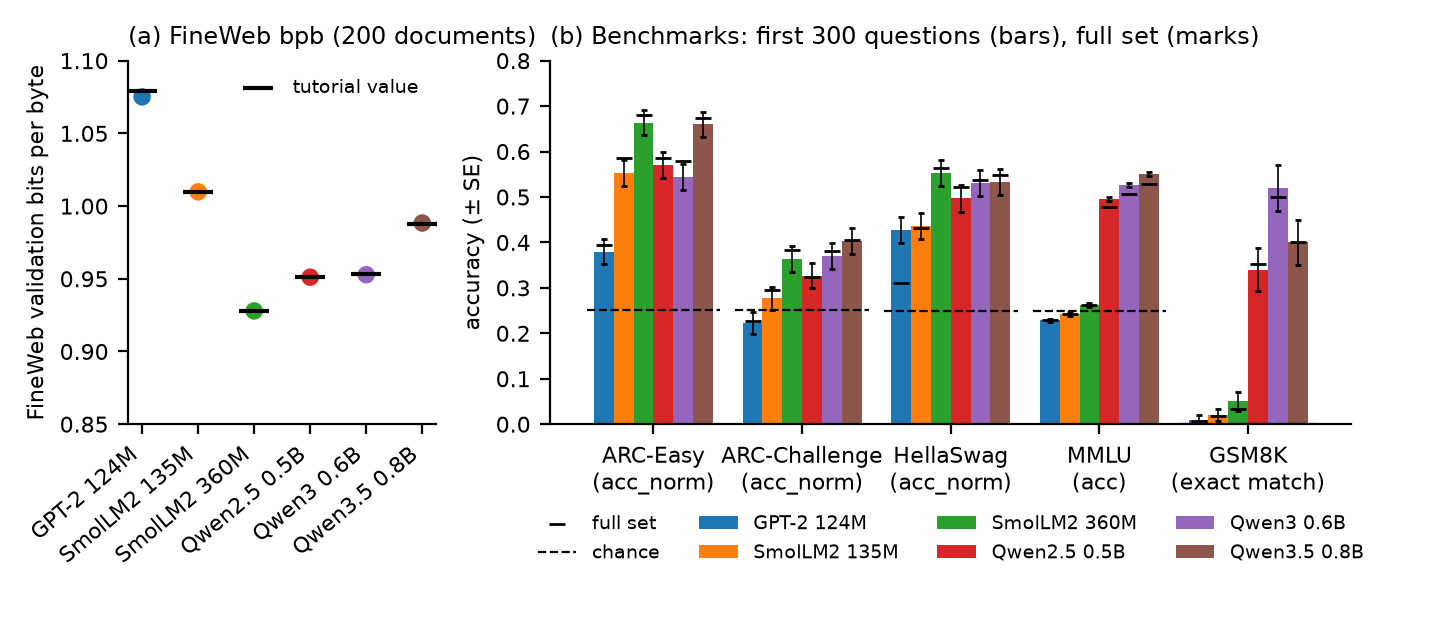
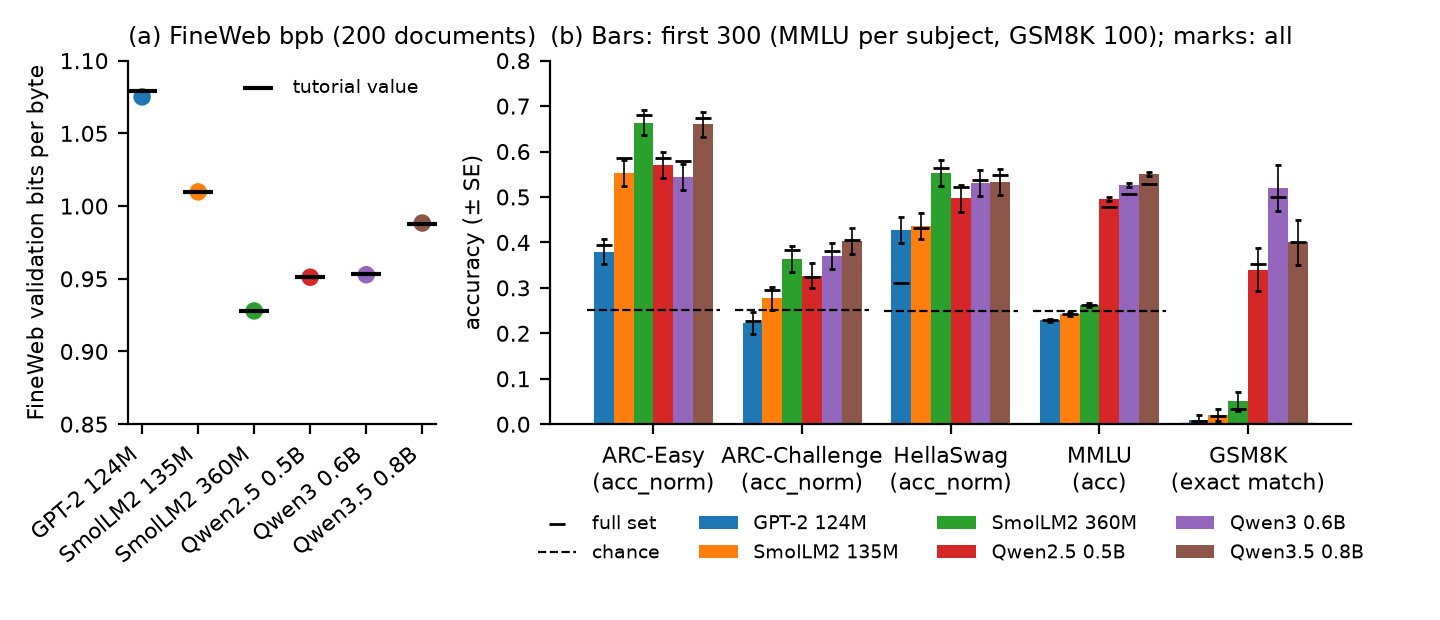
Holm decisions for the cloze pairs, README and figure wording

Changed region(s): [[0.4375, 0.0306, 0.9062, 0.0919]]

diff --git a/analysis/summarize.py b/analysis/summarize.py
@@ -97,7 +97,12 @@ def laptop_reproduction():
 def cloze_pairs():
     """McNemar on cloze-MMLU acc_norm for every pair of base models (same questions, same order)."""
     y = {m: items("cloze", m).sort_values(["sub", "doc_id"]).acc_norm.to_numpy(float) for m in BASE_MODELS}
-    return [{"a": a, "b": b, **mcnemar(y[a], y[b])} for i, a in enumerate(BASE_MODELS) for b in BASE_MODELS[i + 1:]]
+    out = [{"a": a, "b": b, **mcnemar(y[a], y[b])} for i, a in enumerate(BASE_MODELS) for b in BASE_MODELS[i + 1:]]
+    stop = False                                   # Holm's correction over the 15 pairs
+    for i, r in enumerate(sorted(out, key=lambda r: r["p"])):
+        stop = stop or r["p"] > 0.05 / (len(out) - i)
+        r["holm_reject"] = not stop
+    return out
 
 
 def cloze():

diff --git a/analysis/figures.py b/analysis/figures.py
@@ -49,7 +49,7 @@ def evaluation():
     b.set_xticks(range(len(tasks)), [f"{TASKS[t][1]}\n({'acc_norm' if TASKS[t][0] == 'acc_norm' else 'acc' if t != 'gsm8k' else 'exact match'})" for t in tasks])
     b.set_ylabel("accuracy (± SE)")
     b.set_ylim(0, 0.8)
-    b.set_title("(b) Benchmarks: first 300 questions (bars), full set (marks)", loc="left")
+    b.set_title("(b) Bars: first 300 (MMLU per subject, GSM8K 100); marks: all", loc="left")
     b.legend(ncol=4, loc="upper center", bbox_to_anchor=(0.5, -0.2), frameon=False)
     fig.tight_layout()
     fig.savefig(OUT / "evaluation.png", dpi=200)

diff --git a/README.md b/README.md
@@ -60,7 +60,7 @@ On every question of each evaluation set (HellaSwag: the validation set), with M
 | SmolLM2-360M-Instruct GSM8K, chat template and 4-shot chain of thought vs none | 100 | 0.020 | 0.060 (p = 0.22) | 0.0743 |
 | Qwen2.5-0.5B-Instruct GSM8K, chat template and 4-shot chain of thought vs none | 100 | 0.340 | 0.390 (p = 0.44) | 0.496 |
 
-GSM8K uses lm_eval's prompts on the first 300 questions (base models) or 100 (instruct models). Qwen3 states a chain-of-thought prompt, Qwen2.5's report gives only "4-shot", so both of lm_eval's 4-shot prompts are run. Qwen states no setting for its instruct model, so that model runs with the chat template, as SmolLM2's evaluation does, with lm_eval's 5-shot prompt and with its 4-shot chain-of-thought prompt. Few-shot prompts move ARC-Challenge and MMLU toward the published values and the chain-of-thought prompt does the same for the base models' GSM8K, while the shot count alone and the chat template do not; the p values are McNemar, uncorrected, and with Holm's correction over these 10 tests only the MMLU change is resolved. Qwen2.5-0.5B-Instruct's published GSM8K stays unexplained (0.39 with the chat template and chain of thought, p = 0.44, against 0.496).
+GSM8K uses lm_eval's prompts on the first 300 questions (base models) or 100 (instruct models). Qwen3 states a chain-of-thought prompt, Qwen2.5's report gives only "4-shot", so both of lm_eval's 4-shot prompts are run. Qwen states no setting for its instruct model, so that model runs with the chat template, as SmolLM2's evaluation does, with lm_eval's 5-shot prompt and with its 4-shot chain-of-thought prompt. Few-shot prompts move ARC-Challenge and MMLU toward the published values and the chain-of-thought prompt does the same for the base models' GSM8K (McNemar p < 0.05, uncorrected); the shot count alone and the chat template change nothing with p < 0.05, and with Holm's correction over these 10 tests only the MMLU change is resolved. Qwen2.5-0.5B-Instruct's published GSM8K stays unexplained (0.39 with the chat template and chain of thought, p = 0.44, against 0.496).
 
 ### The scoring rule (ARC-Easy)
 
@@ -159,5 +159,5 @@ python analysis/figures.py     # figures/*.png (no GPU)
 - **Scope.** One SFT and one DPO configuration and data set each, at nanolm's settings; LoRA only.
 - **Evaluation.** 0-shot log-likelihood scoring (GSM8K: 5-shot generation, exact match with lm_eval's flexible-extract filter), without chat templates or chain of thought except in the publisher-setting test; every question of each evaluation set and the cloze form only for the base models; GSM8K comparisons of the instruct models and tuned adapters on 100 questions.
 - **Samples.** Judged by counts over 50 held-out prompts and by reading, not by a reward model or human raters.
-- **Statistics.** Paired t-tests over 5 seeds, McNemar tests and question-bootstrap intervals, without correction for multiple comparisons (`summary.json` also gives Holm-corrected counts for the model pairs).
+- **Statistics.** Paired t-tests over 5 seeds, McNemar tests and question-bootstrap intervals, without correction for multiple comparisons except where stated (`summary.json` also gives Holm-corrected counts for the model pairs and Holm decisions for the publisher-setting tests).
 - **Models.** Below 0.4B parameters the models are GPT-2 and SmolLM2, from 0.49B up Qwen, so size and model family are confounded.
